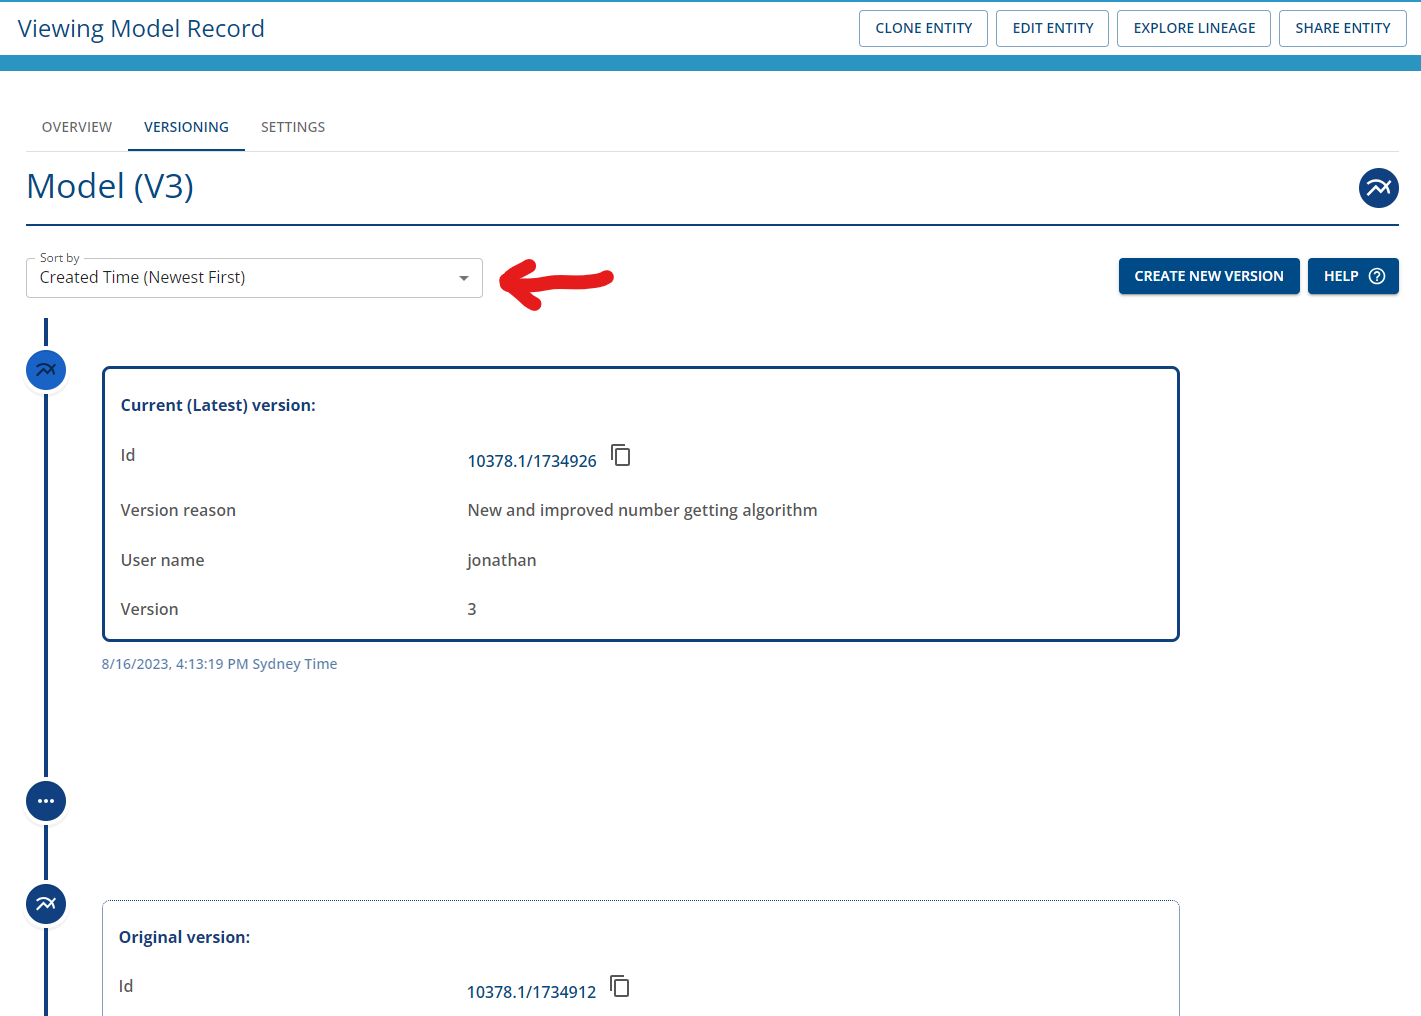
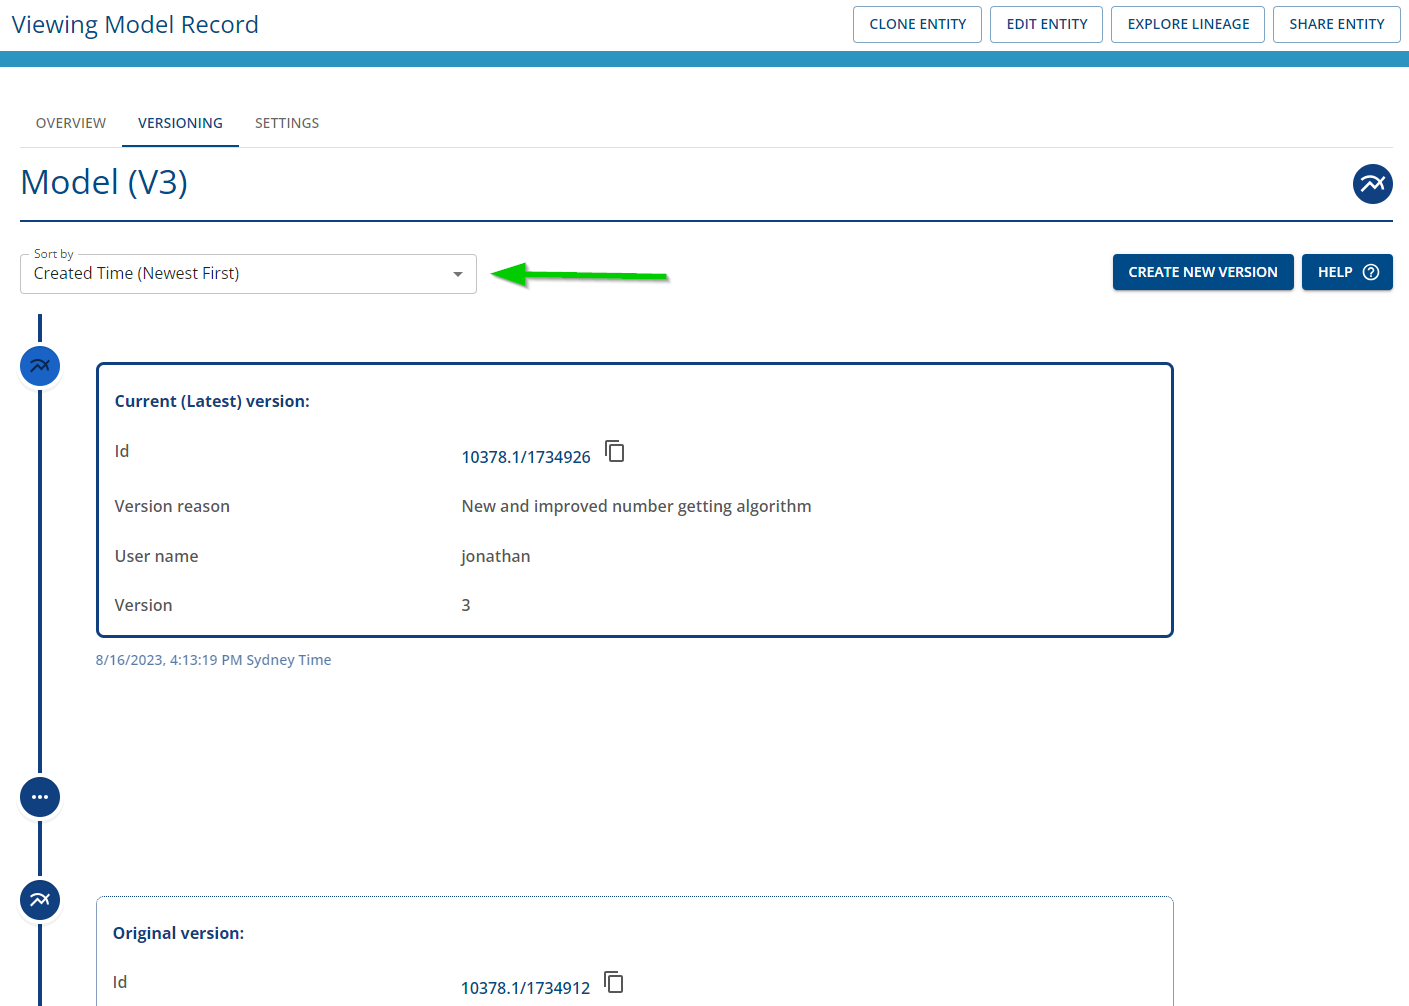
Update versioning text and screenshots based on reviewer feedback

diff --git a/docs/versioning/how-to-version.md b/docs/versioning/how-to-version.md
@@ -7,15 +7,19 @@ parent: Versioning
 ---
 # How to create versions in the Registry
 
+- Ensure you're logged in to Provena
+- The logged in user has registry write permissions 
+- The logged in user has ADMIN permissions for the registry item
+
+
 ## Step 1. Navigate to the item record in the Registry
 
-- Ensure you're logged in.
 - Navigate to the item record in the Registry
 - Click on the "VERSIONING" tab as shown below
 
 |                         Versioning Tab                                                                 |
 | :----------------------------------------------------------------------------------------------------: |
-| <img src="../assets/images/versioning/versioning-registry-versioning-tab.jpg" alt="drawing" width="600"/> |
+| <img src="../assets/images/versioning/versioning-registry-versioning-tab.jpg" alt="drawing" /> |
 
 
 
@@ -25,7 +29,7 @@ parent: Versioning
 
 |               Click on the "Create new version" button                                                      |
 | :----------------------------------------------------------------------------------------------------: |
-| <img src="../assets/images/versioning/versioning-registry-create-version.png" alt="drawing" width="600"/> |
+| <img src="../assets/images/versioning/versioning-registry-create-version.png" alt="drawing" /> |
 
 
 
@@ -34,7 +38,7 @@ parent: Versioning
 
 |               Add details to the versioning action                                                      |
 | :----------------------------------------------------------------------------------------------------: |
-| <img src="../assets/images/versioning/versioning-registry-create-reason.png" alt="drawing" width="600"/> |
+| <img src="../assets/images/versioning/versioning-registry-create-reason.png" alt="drawing" /> |
 
 Upon clicking the "Submit" button, the new version of the item will be created. 
 A set of jobs will be sent to be processed in order for the provenance graphs to be created and updated.
@@ -47,15 +51,15 @@ You now have a new version of the item. You can view the version history includi
 
 |               Updated versioning details                                                    |
 | :----------------------------------------------------------------------------------------------------: |
-| <img src="../assets/images/versioning/versioning-registry-create-version-result.png" alt="drawing" width="600"/> |
+| <img src="../assets/images/versioning/versioning-registry-create-version-result.png" alt="drawing" /> |
 
-You can click on the icon with 3 dots in the versioning timeline to expand to display additional versions.
+You can click on the icon with 3 dots in the versioning timeline to expand to display additional versions ().
 
-<img src="../assets/images/versioning/versioning-registry-view-expand.png" alt="drawing" width="400"/>
+<img src="../assets/images/versioning/versioning-registry-create-version-result-arrow.png" alt="drawing" />
 
 Sorting is available in the drop down menu.
 
-<img src="../assets/images/versioning/versioning-registry-view-sort.png" alt="drawing" width="400"/>
+<img src="../assets/images/versioning/versioning-registry-view-sort.png" alt="drawing"/>
 
 Clicking on the link of the ID of the version will enable you to navigate to that particular version.
 
@@ -66,20 +70,20 @@ If you would like to view the lineage graph of the item, click on the "EXPLORE L
 
 |             Select Explore Lineage button                                     |
 | :----------------------------------------------------------------------------------------------------: |
-|<img src="../assets/images/versioning/versioning-registry-view-lineage.png" alt="drawing" width="600"/> |
+|<img src="../assets/images/versioning/versioning-registry-view-lineage.png" alt="drawing" /> |
 
 You will see the direct lineage of the item in the provenance graph viewer as shown below.
 
 |              Explore Lineage in Provenance Store                                     |
 | :----------------------------------------------------------------------------------------------------: |
-|<img src="../assets/images/versioning/versioning-registry-explore-lineage.png" alt="drawing" width="600"/> |
+|<img src="../assets/images/versioning/versioning-registry-explore-lineage.png" alt="drawing" /> |
 
 
-To view previous versions, you can use your mouse to double-click on the item node to expand other related nodes. 
+To view previous versions, you can use your mouse to double-click on the item node to expand other related nodes. If you continue expanding the nodes including the version activity node, and respective items, you will be able to trace its version lineage in the provenance graph viewer as shown below. 
 
-If you continue expanding the nodes including the version activity node, and respective items, you will be able to trace its version lineage in the provenance graph viewer as shown below.
+In this example, the "Number getting model" was registered and 2 new versions of the mode were registered. A reason a user registers new versions of a model could be to to precisely describe which model version was used in a workflow. This can be useful for supporting repeating model runs or data reproducibility (i.e. re-running specific versions of a model software in a workflow specification).
 
 |             Explore version provenance lineage graph                                     |
 | :----------------------------------------------------------------------------------------------------: |
-|<img src="../assets/images/versioning/prov-store-version-lineage.gif" alt="drawing" width="600"/> |
+|<img src="../assets/images/versioning/prov-store-version-lineage.gif" alt="drawing" /> |
 

diff --git a/docs/versioning/versioning-overview.md b/docs/versioning/versioning-overview.md
@@ -35,6 +35,7 @@ Other use cases include:
 5. Versioned items shall link to the previous revision. Users should be able to navigate back to other versions (previous and later versions)
 6. A versioned item is a separate entity to other versioned items. Users should be able to view a versioned item independently of previous versions
 7. Provena provides functionality to navigate to the current revision and previous revisions distinctly
+8. When a new version is created for a Dataset and if users want to use the Provena data storage feature, a new storage location is created. This storage location will be empty for users to upload relevant data for that version.
 
 ## Next steps
 

diff --git a/docs/versioning/how-to-version-in-data-store.md b/docs/versioning/how-to-version-in-data-store.md
@@ -7,10 +7,15 @@ parent: Versioning
 ---
 # How to create versions in the Data Store
 
+## Pre-requisites
+
+- Ensure you're logged in to Provena
+- The logged in user has registry write permissions 
+- The logged in user has ADMIN permissions for the Dataset
+
 ## Step 1. Navigate to the dataset record in the Data Store
 
-- Ensure you're logged in.
-- Navigate to the dataset record
+- Navigate to the dataset record in the Data Store (ensure you're on the latest version of the dataset)
 - Click on the "VERSIONING" tab as shown below
 
 |                         Versioning Tab                                                                 |

diff --git a/docs/versioning/versioning-faq.md b/docs/versioning/versioning-faq.md
@@ -29,4 +29,7 @@ Functionality wise, the clone and versioning feature looks similar - metadata is
 - the new versioned item is linked to the previous version of the item
 - a version activity is generated in the provenance graph linking the versioned items with each other
 
+## What happens when a version is created for Datasets?
+
+When a new version is created for a Dataset and if users want to use the Provena data storage feature, a new storage location is created. This storage location will be empty for users to upload relevant data for that version.
 
